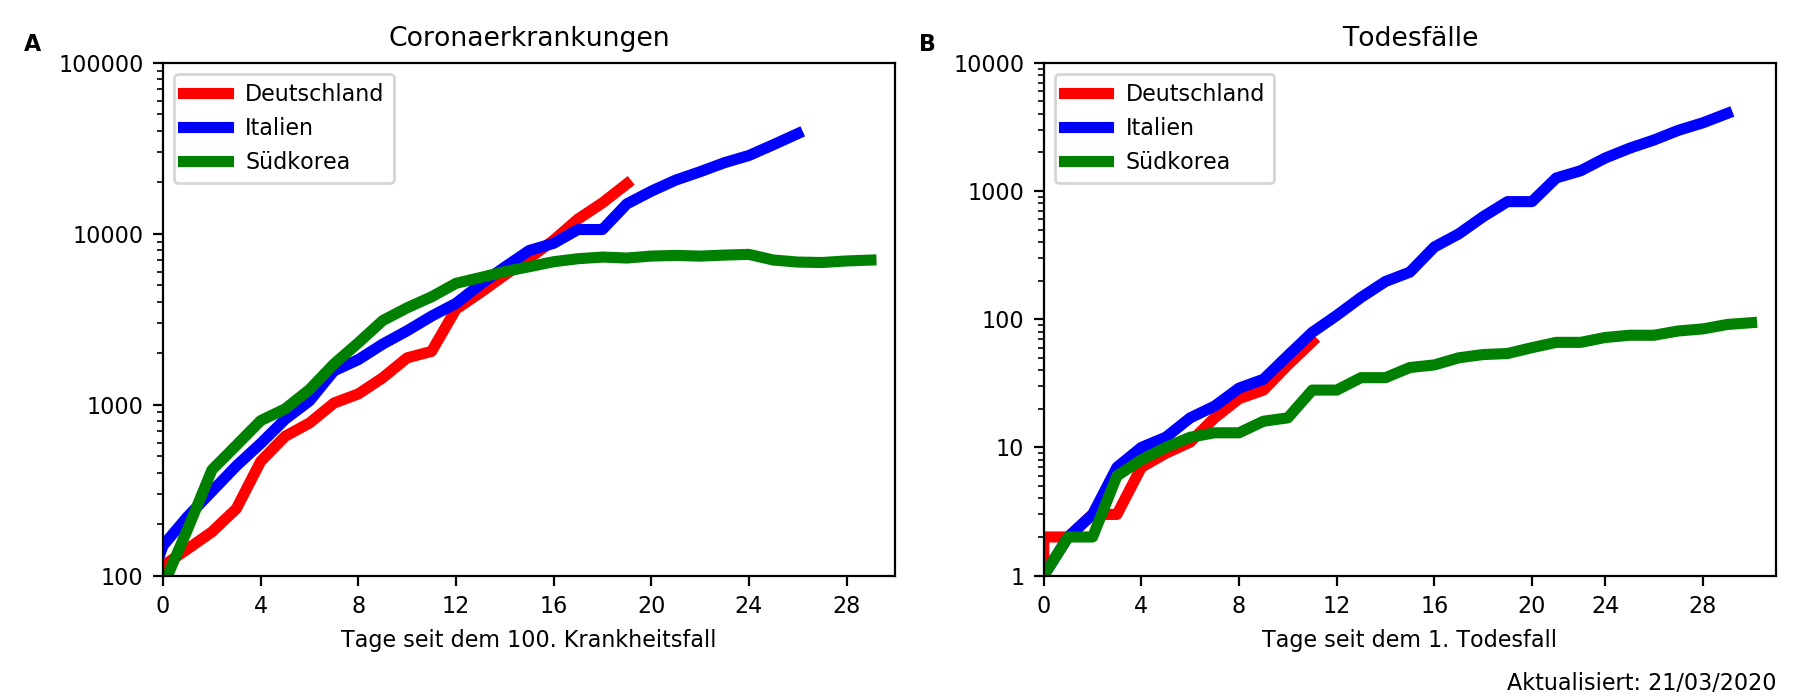
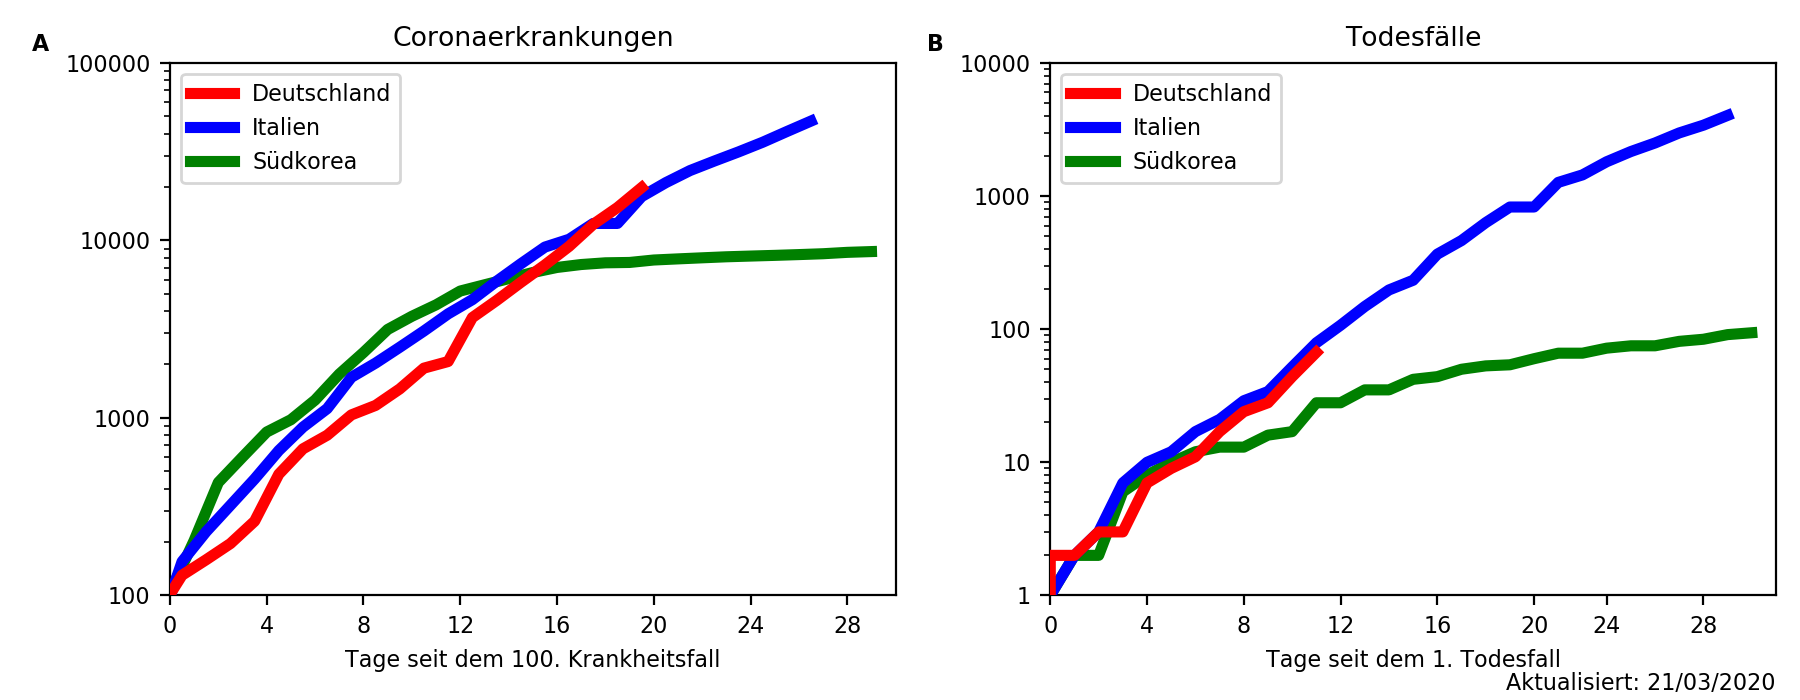
Prettier plots

diff --git a/coronavirus.py b/coronavirus.py
@@ -87,35 +87,49 @@ def get_data():
 
 	return df
 
-def plot_countries(df,country_list=['Germany', 'Italy', 'France'], lag_countries=None, variable='confirmed', xmin='2020-02-21', ylim=None,ax=None,savefig=None, **kwargs):
+def plot_countries(df,country_list, lag_countries=None, variable='confirmed', xmin='2020-02-21', ymin=1,ax=None,savefig=None, plot_order=None, plot_color = None, **kwargs):
 
+	#Set defaults
+	if ax is None:
+		fig = plt.figure(figsize=(4.5,3.5))
+
+	if plot_order is None:
+		plot_order = np.arange(len(country_list))
+		
+	if plot_color is None:
+		#plot_color = [plt.get_cmap('viridis')(i) for i in np.arange(len(country_list))]
+		plot_color =  [None for i in range(len(country_list))]
+
+	if ax is None:
+		ax = plt.gca()
+
+	#Copies relevant data and aligns it
 	df2 = df[df['Country/Region'].isin(country_list)]
 
 	if lag_countries is not None:
 		lag_dict = dict(zip(country_list, lag_countries))
 		df2['date_lag'] = df2['date'] - df2['Country/Region'].apply(lambda x:pd.to_timedelta(lag_dict[x], unit='d'))
 		x_var = 'date_lag'
-
 	else:
 		x_var = 'date'
 
-	if ax is None:
-		fig = plt.figure(figsize=(4.5,3.5))
-
-	ax = sns.lineplot(data=df2,hue='Country/Region', x=x_var,y=variable, ax=ax,**kwargs)
+	for i in range(len(country_list)):
+		x_data = df2[df2['Country/Region']==country_list[i]][x_var]
+		y_data = df2[df2['Country/Region']==country_list[i]][variable]
+		ax.plot(x_data,y_data, zorder = plot_order[i], color=plot_color[i], **kwargs)
+	#ax = sns.lineplot(data=df2,hue='Country/Region', x=x_var,y=variable, ax=ax,**kwargs)
 	
 	#Beautifies plot
 	ax.set_yscale('log')
-	if ylim is not None:
-		ax.set_ylim(ylim)
-	else:
-		ax.set_ylim([1,ax.get_ylim()[1]])
 
-	#Sets xlim
+	#Sets limits
 	x_lim_0 = pd.Timestamp(xmin)
-	x_min_1 = df2[x_var].max() + pd.to_timedelta(1, unit='d')
+	x_lim_1 = df2[x_var].max() + pd.to_timedelta(1, unit='d')
+	y_lim_0 = ymin
+	y_lim_1 = np.power(10,np.ceil(np.log10(df2[variable].max())))
 
-	ax.set_xlim([x_lim_0, x_min_1])
+	ax.set_xlim([x_lim_0, x_lim_1])
+	ax.set_ylim([y_lim_0, y_lim_1])
 	ax.yaxis.set_major_formatter(mticker.ScalarFormatter())
 	#ax.xaxis.set_major_locator(mdates.DayLocator())
 	ax.xaxis.set_major_formatter(mdates.DateFormatter('%d/%m'))
@@ -292,10 +306,15 @@ def update_all(days_pred = 3, m_days = 3):
 	#Restores backend
 	matplotlib.use(old_backend)
 
-def update_local(lang='de'):
+def update_local(lang='all'):
+
+	#Rare actually useful usage of recursion
+	if lang == 'all':
+		update_local('en')
+		update_local('de')
+		return 
 
 	#Plots local short-term forecast
-	
 	if lang == 'en':
 		ylabel_de = 'Confirmed cases in Germany'
 		ylabel_ls = 'Confirmed cases in Lower Saxony'
@@ -303,7 +322,6 @@ def update_local(lang='de'):
 		str_save = 'plots/germany_local_en.png'
 		labels = ['Confirmed cases', 'Forecast']
 		str_ann = 'Updated: ' + datetime.now().strftime("%d/%m/%Y")
-		
 
 	elif lang == 'de':
 		ylabel_de = 'Gesamtzahl bestätigter Fälle in Deutschland'
@@ -327,7 +345,6 @@ def update_local(lang='de'):
 	ax_lowersaxony.set_xlabel(xlabel)
 
 	ax_lowersaxony.annotate(str_ann, xy=(1,-0.01), xycoords=('axes fraction','figure fraction'), xytext=(0,6), textcoords='offset points', ha='right')
-
 	ax_germany.annotate('A', xy=(-0.12,0.9), xycoords=('axes fraction','figure fraction'), xytext=(0,7), textcoords='offset points', ha='left', weight='bold')
 	ax_lowersaxony.annotate('B', xy=(-0.10,0.9), xycoords=('axes fraction','figure fraction'), xytext=(0,7), textcoords='offset points', ha='left', weight='bold')
 
@@ -343,8 +360,10 @@ def update_local(lang='de'):
 	ax_cases = fig.add_subplot(gs[0])
 	ax_deaths = fig.add_subplot(gs[1])
 	df = get_data()
-	plot_countries(df,countries_list,variable='current', lag_countries=[0,-7,-10], xmin='2020-03-01', ylim=[100,1e5], ax=ax_cases,**{'linewidth':4, 'palette': color_palette})
-	plot_countries(df,countries_list,variable='deaths', lag_countries=[0,-17,-18], xmin='2020-03-09', ylim=[1,1e4],ax=ax_deaths,**{'linewidth':4, 'palette': color_palette})
+	#plot_countries(df,countries_list,variable='current', lag_countries=[0,-7.5,-10], xmin='2020-03-01', ylim=[100,1e5], ax=ax_cases,**{'linewidth':4, 'palette': color_palette})
+	#plot_countries(df,countries_list,variable='deaths', lag_countries=[0,-17,-18], xmin='2020-03-09', ymin=1,ax=ax_deaths,**{'linewidth':4, 'palette': color_palette})
+	plot_countries(df,countries_list,variable='confirmed', lag_countries=[-0.5,-7.5,-10], xmin='2020-03-01', ymin = 100,  ax=ax_cases, plot_order=[100,10,1], plot_color=color_palette, **{'linewidth':4})
+	plot_countries(df,countries_list,variable='deaths', lag_countries=[0,-17,-18], xmin='2020-03-09', ymin = 1, ax=ax_deaths, plot_order=[100,10,1], plot_color=color_palette,  **{'linewidth':4})
 
 	if lang == 'de':
 
